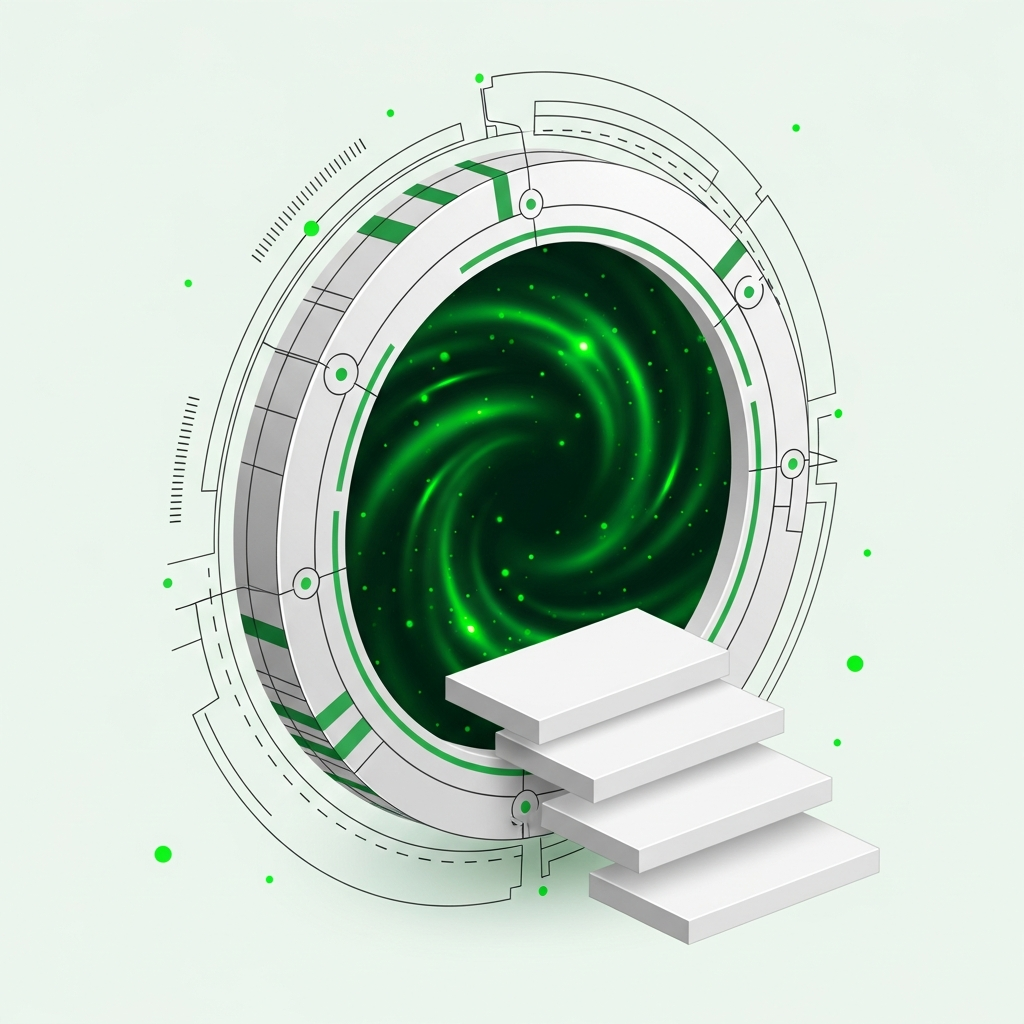
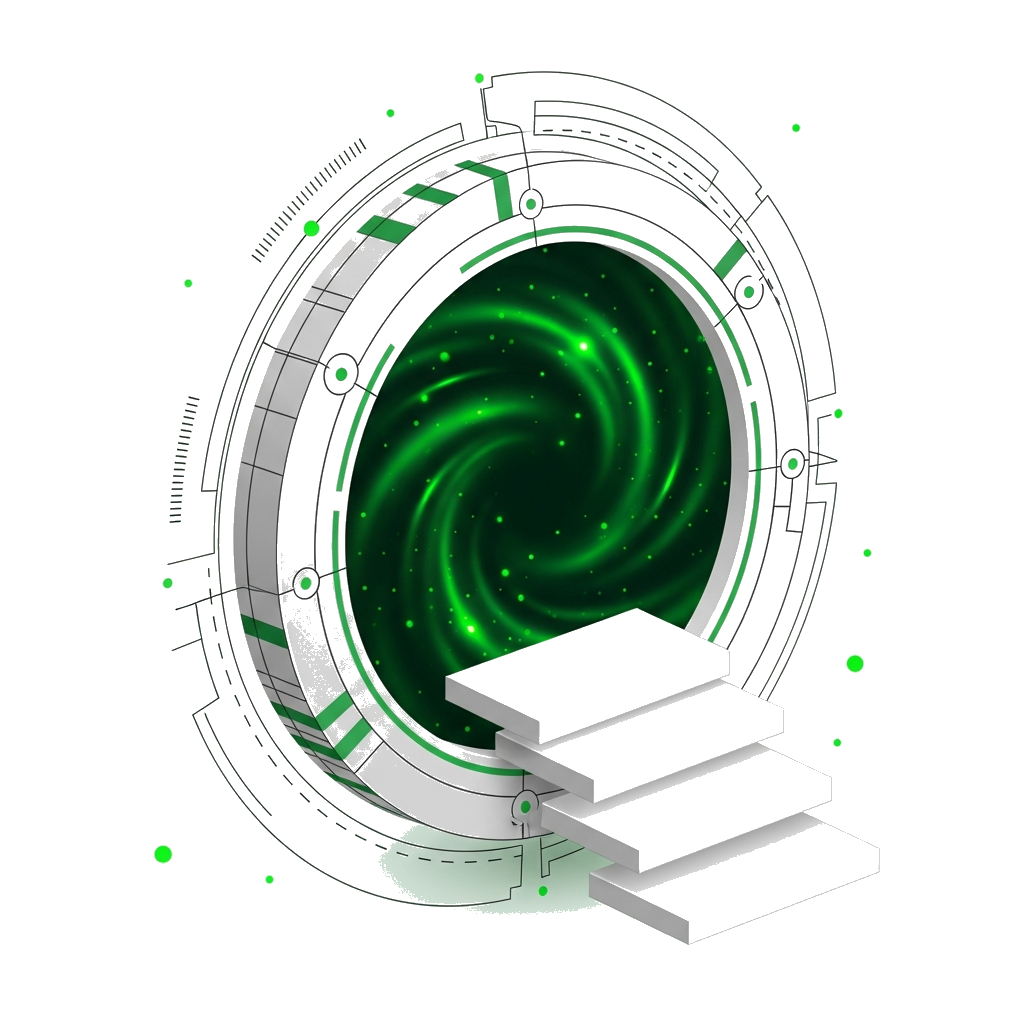
Add a transparent background to the portal animation image
Add a new transparent PNG asset for the portal animation and create a Python project configuration.

Replit-Commit-Author: Agent
Replit-Commit-Session-Id: 38aa7c78-e506-4a73-b161-06522088b82d
Replit-Commit-Checkpoint-Type: intermediate_checkpoint
Replit-Commit-Event-Id: c1068628-2dd3-4ed7-b3ef-9425ee0b3a83
Replit-Commit-Screenshot-Url: https://storage.googleapis.com/screenshot-production-us-central1/36e06505-1c33-4763-8fe5-6e236015987b/38aa7c78-e506-4a73-b161-06522088b82d/6PdfmH8
Replit-Helium-Checkpoint-Created: true

diff --git a/main.py b/main.py
@@ -1,0 +1,6 @@
+def main():
+    print("Hello from repl-nix-workspace!")
+
+
+if __name__ == "__main__":
+    main()
